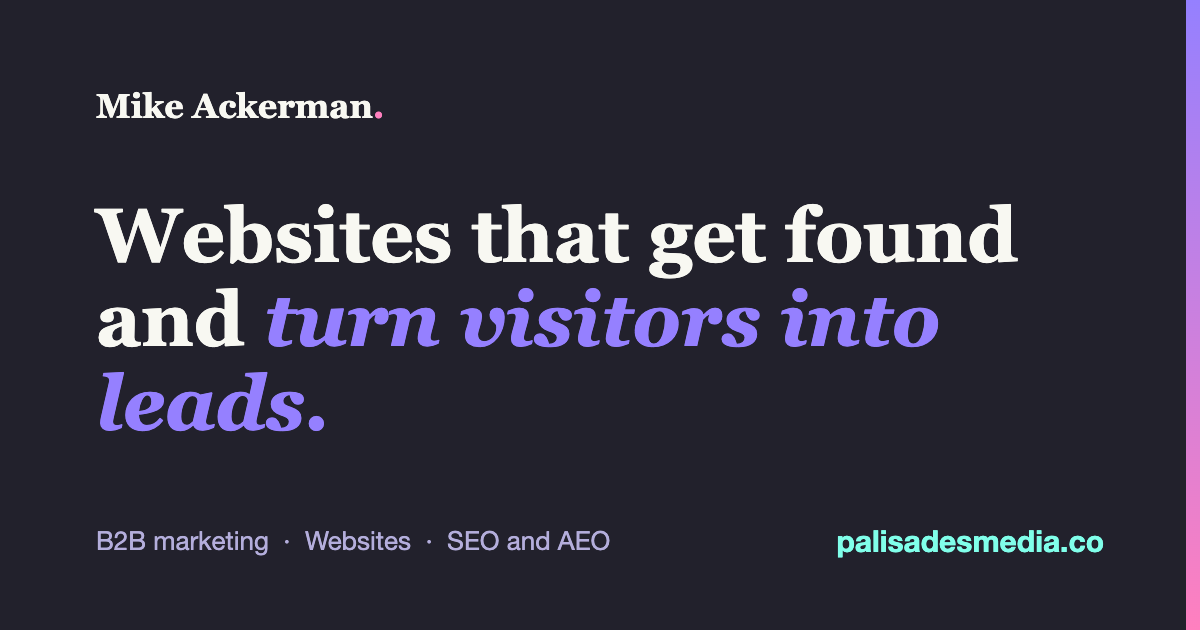
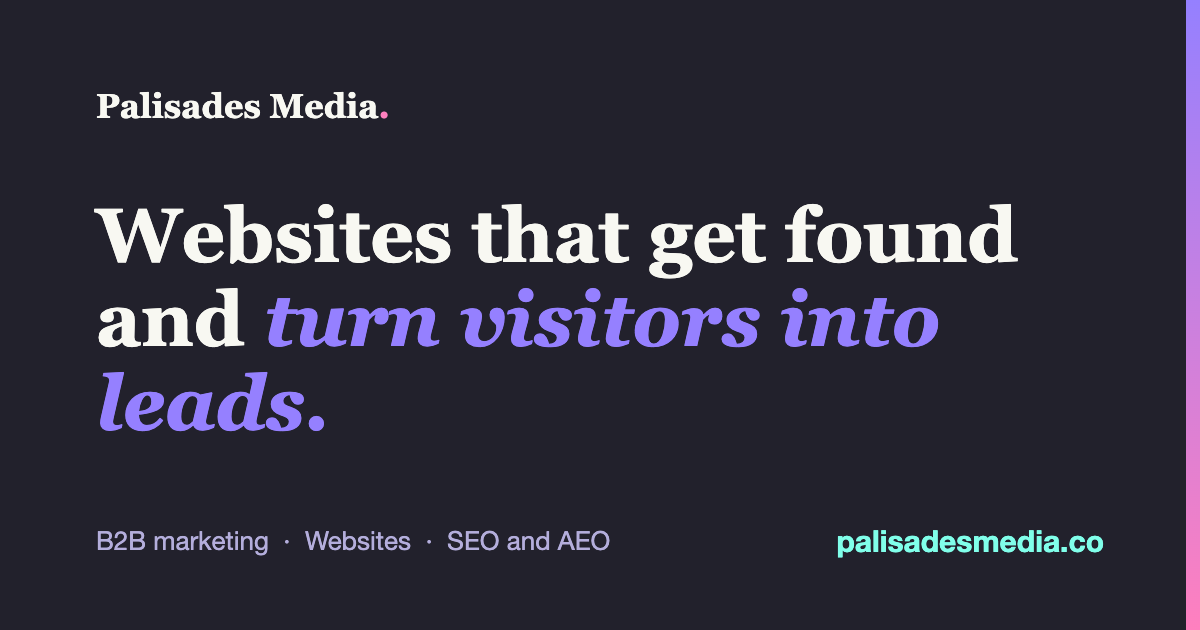
Lead with Palisades Media brand

Changed region(s): [[0.0617, 0.1508, 0.3392, 0.2111]]

diff --git a/index.html b/index.html
@@ -3,17 +3,17 @@
 <head>
 <meta charset="utf-8">
 <meta name="viewport" content="width=device-width, initial-scale=1">
-<title>Mike Ackerman · B2B Marketing, Websites and Search · Portland, Oregon</title>
+<title>Palisades Media · B2B Marketing, Websites and Search · Portland, Oregon</title>
 <meta name="description" content="Mike Ackerman is a Portland B2B marketer with 10+ years in demand generation, WordPress and Elementor websites, and SEO and AEO. Fast sites that show up in Google and AI answers and turn visitors into leads.">
 <link rel="canonical" href="https://palisadesmedia.co/">
 <meta property="og:type" content="website">
 <meta property="og:url" content="https://palisadesmedia.co/">
-<meta property="og:title" content="Mike Ackerman · B2B Marketing, Websites and Search">
+<meta property="og:title" content="Palisades Media · B2B Marketing, Websites and Search">
 <meta property="og:description" content="WordPress and Elementor websites, demand generation and campaign strategy, and SEO and AEO for small and midsize businesses.">
 <meta property="og:image" content="https://palisadesmedia.co/og.png">
 <meta property="og:image:width" content="1200">
 <meta property="og:image:height" content="630">
-<meta property="og:image:alt" content="Mike Ackerman: Websites that get found and turn visitors into leads.">
+<meta property="og:image:alt" content="Palisades Media: Websites that get found and turn visitors into leads.">
 <meta name="twitter:card" content="summary_large_image">
 <meta name="theme-color" content="#22212c">
 <script async src="https://www.googletagmanager.com/gtag/js?id=G-J8SMJE1C9C"></script>
@@ -120,7 +120,7 @@ footer a{color:var(--muted)}
 <body>
 <div class="wrap">
   <header class="top">
-    <a class="mark" href="/" aria-label="Mike Ackerman, home">Mike Ackerman<i>.</i></a>
+    <a class="mark" href="/" aria-label="Palisades Media, home">Palisades Media<i>.</i></a>
     <nav aria-label="Main">
       <a href="#services">Services</a>
       <a href="#about">About</a>
